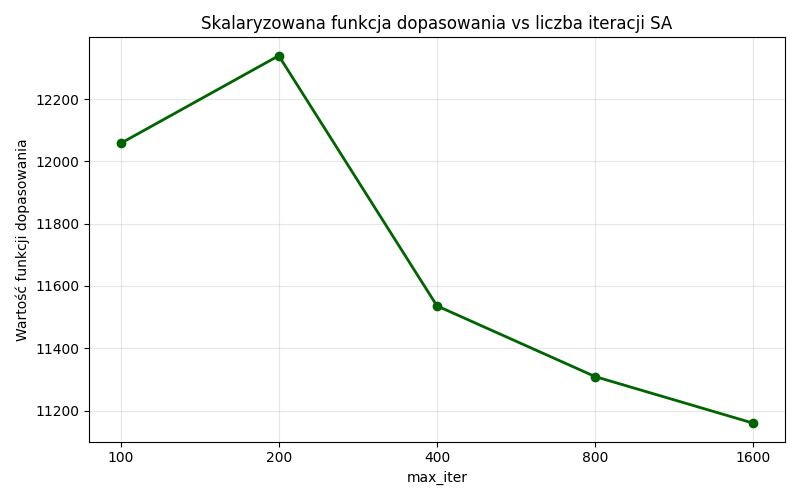
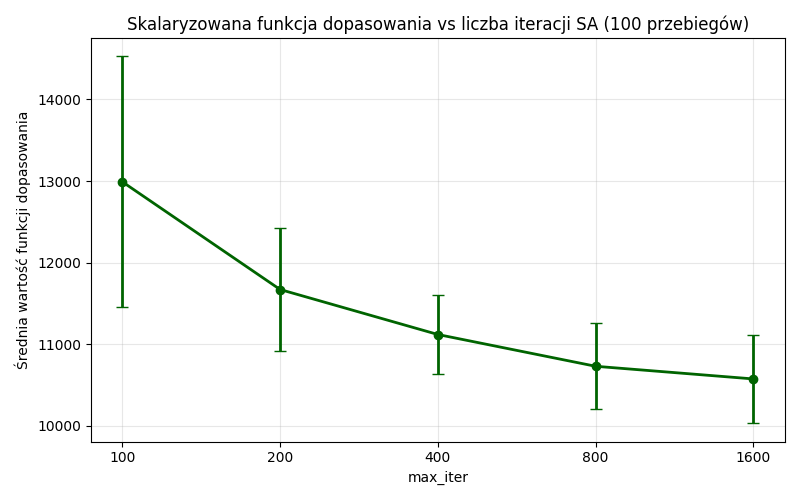
WIP

diff --git a/lab7/main.py b/lab7/main.py
@@ -1,5 +1,6 @@
 from pathlib import Path
 
+import numpy as np
 import matplotlib.pyplot as plt
 
 from sa_2c import (
@@ -95,58 +96,78 @@ def run_scalarization(log_to_console=False):
 
     parameter_names = ["total_flowtime", "max_tardiness", "max lateness"]
     reference_parameter_name = "total_flowtime"
+    scalarization_repeats = 100
 
 
-    fitness_values = []
+    avg_fitness_values = []
+    std_fitness_values = []
 
     for i, max_iter in enumerate(iters, start=1):
-        weights = calculate_weights(
-            times,
-            deadlines,
-            n_jobs,
-            parameter_names,
-            max_iter,
-            log_to_console=log_to_console,
-            reference_parameter_name=reference_parameter_name,
-        )
+        fitness_values = []
 
-        seed = i + 333
-        on_accept = None
+        for rep in range(scalarization_repeats):
+            seed = 333 + rep
+            should_log_run = log_to_console and max_iter == iters[-1] and rep == 0
 
-        if log_to_console and max_iter == iters[-1]:
-            def on_accept(iteration, solution, obj):
-                params = ", ".join(
-                    f"{parameter_name}={obj[parameter_name]}"
-                    for parameter_name in parameter_names
-                )
-                fitness = scalarized_value(obj, weights)
-                print(
-                    f"[SA scalarized accepted] "
-                    f"max_iter={max_iter}, "
-                    f"it={iteration}, "
-                    f"fitness={fitness}, "
-                    f"{params}"
-                )
+            weights = calculate_weights(
+                times,
+                deadlines,
+                n_jobs,
+                parameter_names,
+                max_iter,
+                seed=seed,
+                log_to_console=should_log_run,
+                reference_parameter_name=reference_parameter_name,
+            )
 
-        best, accepted_solutions = simulated_annealing_scalarized(
-            times,
-            deadlines,
-            n_jobs=n_jobs,
-            weight=weights,
-            max_iter=max_iter,
-            seed=seed,
-            on_accept=on_accept,
-        )
+            on_accept = None
 
-        solution, obj = best
-        score = scalarized_value(obj, weights)
-        fitness_values.append(score)
+            if should_log_run:
+                def on_accept(iteration, solution, obj):
+                    params = ", ".join(
+                        f"{parameter_name}={obj[parameter_name]}"
+                        for parameter_name in parameter_names
+                    )
+                    fitness = scalarized_value(obj, weights)
+                    print(
+                        f"[SA scalarized accepted] "
+                        f"max_iter={max_iter}, "
+                        f"rep={rep}, "
+                        f"it={iteration}, "
+                        f"fitness={fitness}, "
+                        f"{params}"
+                    )
+
+            best, accepted_solutions = simulated_annealing_scalarized(
+                times,
+                deadlines,
+                n_jobs=n_jobs,
+                weight=weights,
+                max_iter=max_iter,
+                seed=seed,
+                on_accept=on_accept,
+            )
+
+            solution, obj = best
+            score = scalarized_value(obj, weights)
+            fitness_values.append(score)
+
+        avg_fitness_values.append(float(np.mean(fitness_values)))
+        std_fitness_values.append(float(np.std(fitness_values)))
 
     fig, ax = plt.subplots(figsize=(8, 5))
-    ax.plot(iters, fitness_values, marker="o", linewidth=2, color="darkgreen")
+    ax.errorbar(
+        iters,
+        avg_fitness_values,
+        yerr=std_fitness_values,
+        marker="o",
+        capsize=4,
+        linewidth=2,
+        color="darkgreen",
+    )
     ax.set_xlabel("max_iter")
-    ax.set_ylabel("Wartość funkcji dopasowania")
-    ax.set_title("Skalaryzowana funkcja dopasowania vs liczba iteracji SA")
+    ax.set_ylabel("Średnia wartość funkcji dopasowania")
+    ax.set_title(f"Skalaryzowana funkcja dopasowania vs liczba iteracji SA ({scalarization_repeats} przebiegów)")
     ax.set_xscale("log", base=2)
     ax.set_xticks(iters)
     ax.set_xticklabels(iters)

diff --git a/lab7/sa_2c.py b/lab7/sa_2c.py
@@ -1,4 +1,5 @@
 import numpy as np
+import warnings
 from RandomNumberGenerator import RandomNumberGenerator
 import matplotlib.pyplot as plt
 
@@ -77,32 +78,40 @@ def max_lateness(comp_times: np.ndarray, deadlines: np.ndarray, permutation: lis
     last_machine = comp_times.shape[0] - 1
     n_jobs = len(deadlines)
 
-    tardiness = np.zeros(n_jobs)
+    latness = np.zeros(n_jobs)
     for k in range(n_jobs):
         job = permutation[k]
         completion = comp_times[last_machine, k]
         due_date = deadlines[job]
-        tardiness[k] = completion - due_date
+        latness[k] = completion - due_date
 
-    return np.max(tardiness)
+    return np.max(latness)
 
+def total_lateness(comp_times: np.ndarray, deadlines: np.ndarray, permutation: list[int]) -> int:
+    last_machine = comp_times.shape[0] - 1
+    n_jobs = len(deadlines)
+
+    lateness = 0
+    for k in range(n_jobs):
+        job = permutation[k]
+        completion = comp_times[last_machine, k]
+        due_date = deadlines[job]
+        lateness += completion - due_date
+
+    return lateness
 
 def evaluate(times, deadlines, solution):
-    """Wektor wartości kryteriów dla rozwiązania (oba minimalizujemy)."""
     ft = total_flowtime(times)
     mt = max_tardiness(times, deadlines, solution)
     ml = max_lateness(times, deadlines, solution)
+    tl = total_lateness( times, deadlines, solution)
 
     return {
         "total_flowtime": ft,
         "max_tardiness": mt,
-        "max lateness": ml
+        "max lateness": ml,
+        "total lateness": tl
     }
-
-
-def objective_values(obj):
-    return tuple(obj[key] for key in OBJECTIVE_KEYS)
-
 
 def dominates(obj1, obj2):
     """
@@ -298,14 +307,27 @@ def calculate_weights(times, deadlines, n_jobs, parameters_names, max_iterations
     for parameter_name, delta_info in parameter_deltas.items():
         delta = delta_info["delta"]
         if delta == 0:
-            raise ValueError(f"Nie mozna wyznaczyc wagi dla {parameter_name}: delta wynosi 0.")
-        weight[parameter_name] = 1 / delta
+            warnings.warn(
+                f"Nie mozna wyznaczyc wagi dla {parameter_name}: delta wynosi 0. "
+                "Przypisuje wage 0.",
+                RuntimeWarning,
+            )
+            weight[parameter_name] = 0
+        else:
+            weight[parameter_name] = 1 / delta
 
     if reference_parameter_name is not None:
         if not isinstance(reference_parameter_name, str):
             raise TypeError("Kryterium referencyjne musi byc pojedyncza nazwa parametru jako string.")
         if reference_parameter_name not in weight:
             raise ValueError(f"Nieznane kryterium referencyjne: {reference_parameter_name}.")
+        if weight[reference_parameter_name] == 0:
+            warnings.warn(
+                f"Nie mozna przeskalowac wag wzgledem {reference_parameter_name}: "
+                "waga referencyjna wynosi 0.",
+                RuntimeWarning,
+            )
+            return weight
         scale = 1 / weight[reference_parameter_name]
         weight = {
             parameter_name: parameter_weight * scale
